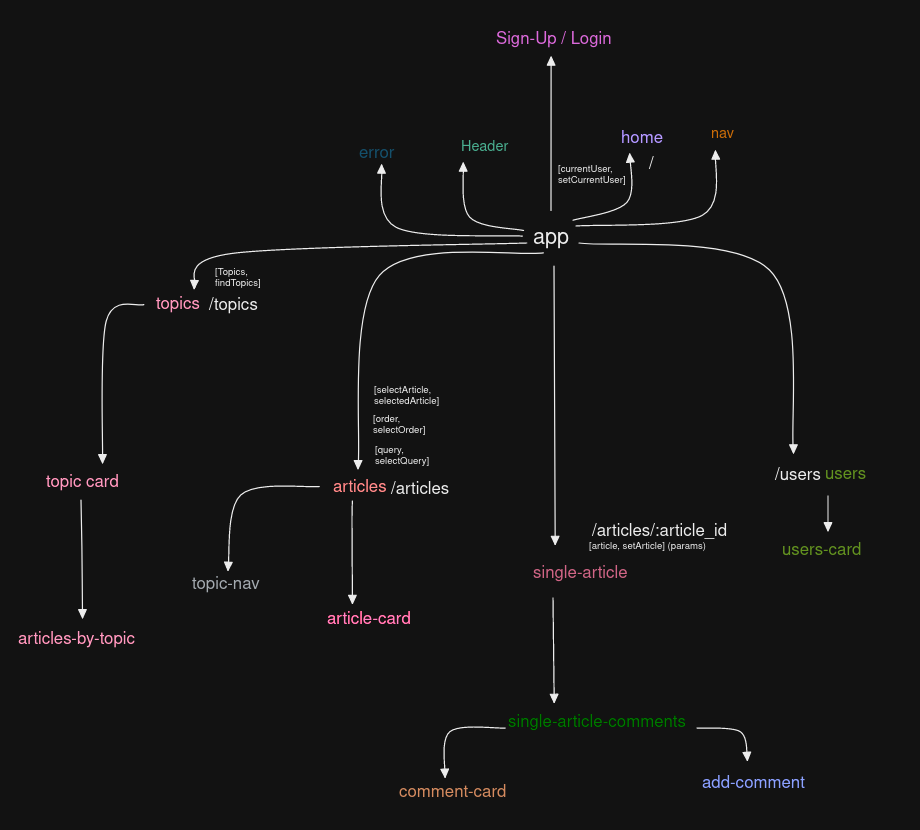
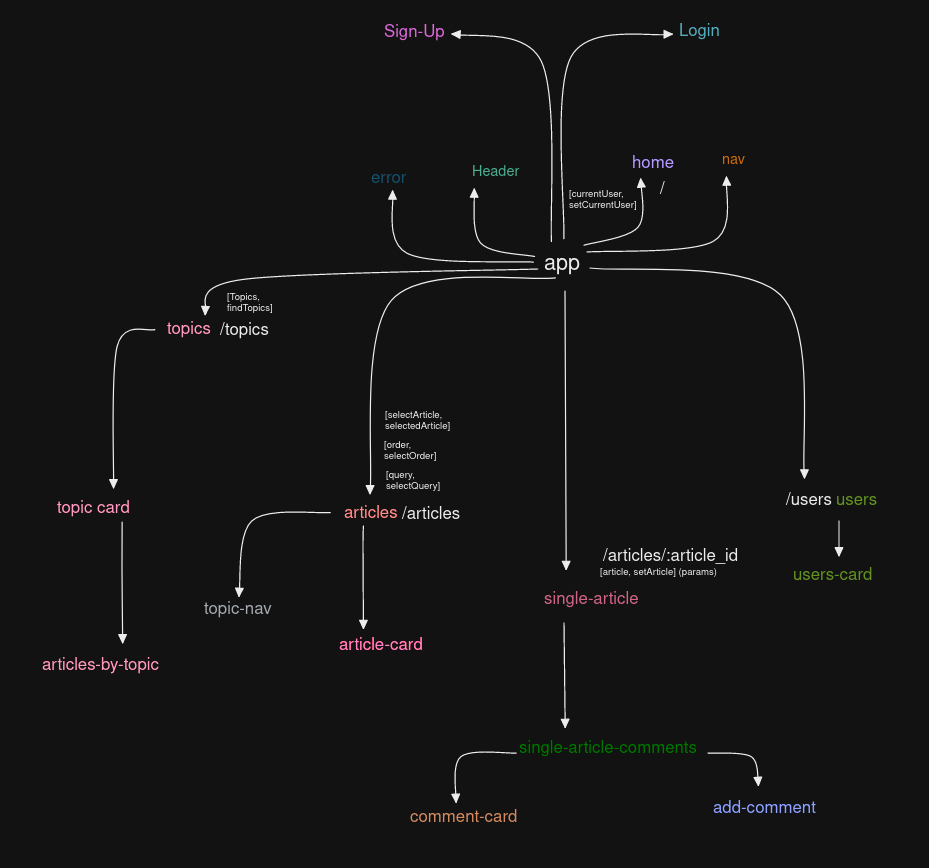
signup component completed, functionality tested & working

diff --git a/src/components/Signup.jsx b/src/components/Signup.jsx
@@ -1,29 +1,24 @@
-import { useState, useEffect } from 'react';
-import * as api from '../api'
+import { useState } from 'react';
 import { checkValidPassword } from '../utilities/checkValidPassword'
 import { checkValidUsername } from '../utilities/checkValidUsername';
 import { checkValidName } from '../utilities/checkValidName';
 import { checkValidLink } from '../utilities/checkValidLink';
-import SignupSuccessfull from './SignupAttempt'
+import SignupAttempt from './SignupAttempt'
 
-
-export default function Signup(user, setUser) {
+export default function Signup() {
 
   const [username, setUsername] = useState('');
   const [name, setName] = useState('');
   const [password, setPassword] = useState('');
   const [checkPassword, setCheckPassword] = useState('');
   const [avatarURL, setAvatarURL] = useState('');
-  // const [isLoading, setIsLoading] = useState(true)
-  const [successfullSignup, setSuccessfullSignup] = useState(false)
-
-  const [passwordSync, checkPasswordSync] = useState(false); //sets error for incorrect username - mismatch
-  const [passwordSyntax, checkPasswordSyntax] = useState(false) //sets error for incorrect password syntax
-  const [usernameSyntax, checkUsernameSyntax] = useState(false) //sets error for incorrect username
-  const [nameSyntax, checkNameSyntax] = useState(false) //sets error for incorrect name
+  
+  const [passwordSync, checkPasswordSync] = useState(false); //Sync - passwords match
+  const [passwordSyntax, checkPasswordSyntax] = useState(false) //Syntax - passwords meets requirements
+  const [usernameSyntax, checkUsernameSyntax] = useState(false) 
+  const [nameSyntax, checkNameSyntax] = useState(false) 
   const [avatarURLSyntax, checkAvatarURLSyntax] = useState(false)
-    // console.log(user, setUser)
-
+  const [successfullSignup, setSuccessfullSignup] = useState(false)
 
   const handleSubmit = (event) => {
     event.preventDefault();
@@ -56,17 +51,14 @@ export default function Signup(user, setUser) {
       }
     }
     setSuccessfullSignup(true)
-    
   }
-  
 
-    if (successfullSignup) {
-      return (
+  if (successfullSignup) {
+    return (
       <div>
-      <SignupSuccessfull username={username} name={name} password={password} avatar_url={avatarURL}></SignupSuccessfull>
-      
+        <SignupAttempt username={username} name={name} password={password} avatar_url={avatarURL}></SignupAttempt>
       </div>
-      )
+    )
   }
 
   return (
@@ -106,7 +98,17 @@ export default function Signup(user, setUser) {
           {checkPassword !== password && <p className='password-prompt'>passwords do not match</p>}
           {passwordSync === true && <p className='password-prompt'>the passwords do not match, you were warned</p>}
           {usernameSyntax === true && <p className='password-prompt'>username needs to be between 5 & 20 characters in length</p>}
-          {passwordSyntax === true && <p className='password-prompt'>passwords needs to contain things to be added here later</p>}
+          {passwordSyntax === true && <p className='password-prompt'>Passwords must adhere to the following</p>}
+          {passwordSyntax === true &&
+            <ul>
+              <li>Between 8 & 40 characters long</li>  
+              <li>Contain one upper case character</li>
+              <li>Contain one lower case character</li>
+              <li>Contain one number</li>
+              <li>Contain one of the following symbols:</li>
+              <li>! £ | - + , = * . ? # ; _ $ % ^</li>
+            </ul>
+          }
           {nameSyntax === true && <p className='password-prompt'>Your name can only contain 4-50 letters</p>}
           {avatarURLSyntax === true && <p className='password-prompt'>Invalid avatarURL</p>}
         <button type="submit">Submit</button>

diff --git a/src/components/SignupAttempt.jsx b/src/components/SignupAttempt.jsx
@@ -1,11 +1,9 @@
 import { useState, useEffect } from 'react';
 import * as api from '../api'
+import { Link } from "react-router-dom"
 
 export default function SignupSuccessfull(userData) {
-
-  //console.log(userData)
   const [isLoading, setIsLoading] = useState(true)
-
   const checkData = {...userData}
   const defaultImage = "https://e7.pngegg.com/pngimages/369/132/png-clipart-man-in-black-suit-jacket-chris-hansen-to-catch-a-predator-television-show-nbc-news-chris-benoit-miscellaneous-television.png"
 
@@ -13,47 +11,23 @@ export default function SignupSuccessfull(userData) {
     checkData.avatar_url += defaultImage
   }
 
-  //console.log(checkData, 'right here, rigth now')
-
   useEffect(() => {
-    setIsLoading(true)//<--does it need a re-seed????? 
+    setIsLoading(true)
     api.userSignUp(checkData).then(({data}) => {
       setIsLoading(false)
-      console.log(data, '<<<data')
     })
-
-  })
+   }, []
+  )
 
   if (isLoading) {
     return <p className="loading">Loading...</p>
 }
 
-  // if (userData.avatar_url.length > 0) {
-  //   const { username, name, password } = userData
-  // } else {
-  //   const { username, name, password, avatar_url } = userData
-  // }
-
-  // console.log(username, name, password, avatar_url, '<<<<<')
-
-  // useEffect(() => {
-
-  //     api.userSignUp(username, name, password, avatarURL).then(({data}) => {
-  //       console.log(data)
-  //     })
-  
-  //   })
-
   return (
     <div>
-      <p>Sign Up Successfull</p>
+      <h3>Sign Up Successfull</h3>
+      <p>Click the link below to sign in</p>
+      <Link to="/login">Login</Link>
     </div>
   )
-
 }  
-  
-  
-  
-  
-  
-  

diff --git a/src/utilities/checkValidPassword.js b/src/utilities/checkValidPassword.js
@@ -11,16 +11,16 @@ function checkValidPassword(string) {
 
     for(let i = 0; i < splitPassword.length; i++) {
         if (splitPassword[i] === "!" ||
-            splitPassword[i] === "[" ||
-            splitPassword[i] === "]" ||
+            splitPassword[i] === "," ||
+            splitPassword[i] === "=" || 
             splitPassword[i] === "_" ||
-            splitPassword[i] === "(" ||
-            splitPassword[i] === ")" ||
+            splitPassword[i] === "-" || 
+            splitPassword[i] === "+" || 
             splitPassword[i] === "*" ||
             splitPassword[i] === "." ||
             splitPassword[i] === "?" ||
-            splitPassword[i] === "<" ||
-            splitPassword[i] === ">" ||
+            splitPassword[i] === "|" || 
+            splitPassword[i] === "£" || 
             splitPassword[i] === "#" ||
             splitPassword[i] === ";" ||
             splitPassword[i] === "^" ||

diff --git a/src/api.js b/src/api.js
@@ -1,5 +1,4 @@
 import axios from "axios";
-import { BsThreeDots } from "react-icons/bs";
 
 const api = axios.create({
   baseURL: "https://nc-news-acw.onrender.com",
@@ -99,16 +98,10 @@ export const deleteCommentByCommentId = (commentId) => {
 }
 
 export const userSignUp = (userData) => {
-  console.log(">>>>>>user>>>",userData)
   return api.post(
     `https://nc-news-acw.onrender.com/api/users/signup`, userData
   )
   .then((response) => {
-    console.log(response, '<<<<<response') //sql issue where column does not exist - be doesnt have a catch block to tell either
     return response;
-  }).catch((error) => {
-    if(error) throw error;
   })
 }
-
-///api/users/signup

diff --git a/src/utilities/__tests__/utilityTest.test.js b/src/utilities/__tests__/utilityTest.test.js
@@ -152,8 +152,8 @@ describe('Password validity checks - password must be between 8 & 40 characters 
         const password = "l.Armstr0ng"
         expect(checkValidPassword(password)).toBe(true)
     })
-    test('Checks the presence of acceptable symbols: ! [ ] ( ) * . < > ? # ; _ $ % ^ -true response', () => {
-        const password = "!.A(r0)[m]*<s>?#/;"
+    test('Checks the presence of acceptable symbols: ! £ | - + , = * . ? # ; _ $ % ^ true response', () => {
+        const password = "!.,=-+£|Ar0m*s?#/;"
         expect(checkValidPassword(password)).toBe(true)
     })
 })

diff --git a/src/components/Nav.jsx b/src/components/Nav.jsx
@@ -11,6 +11,8 @@ export default function Nav() {
             <Link to="/topics">Topics</Link>
             <span> | </span>
             <Link to="/signup">Sign Up</Link>
+            <span> | </span>
+            <Link to="/login">Login</Link>
         </nav>
         </div>
     )
